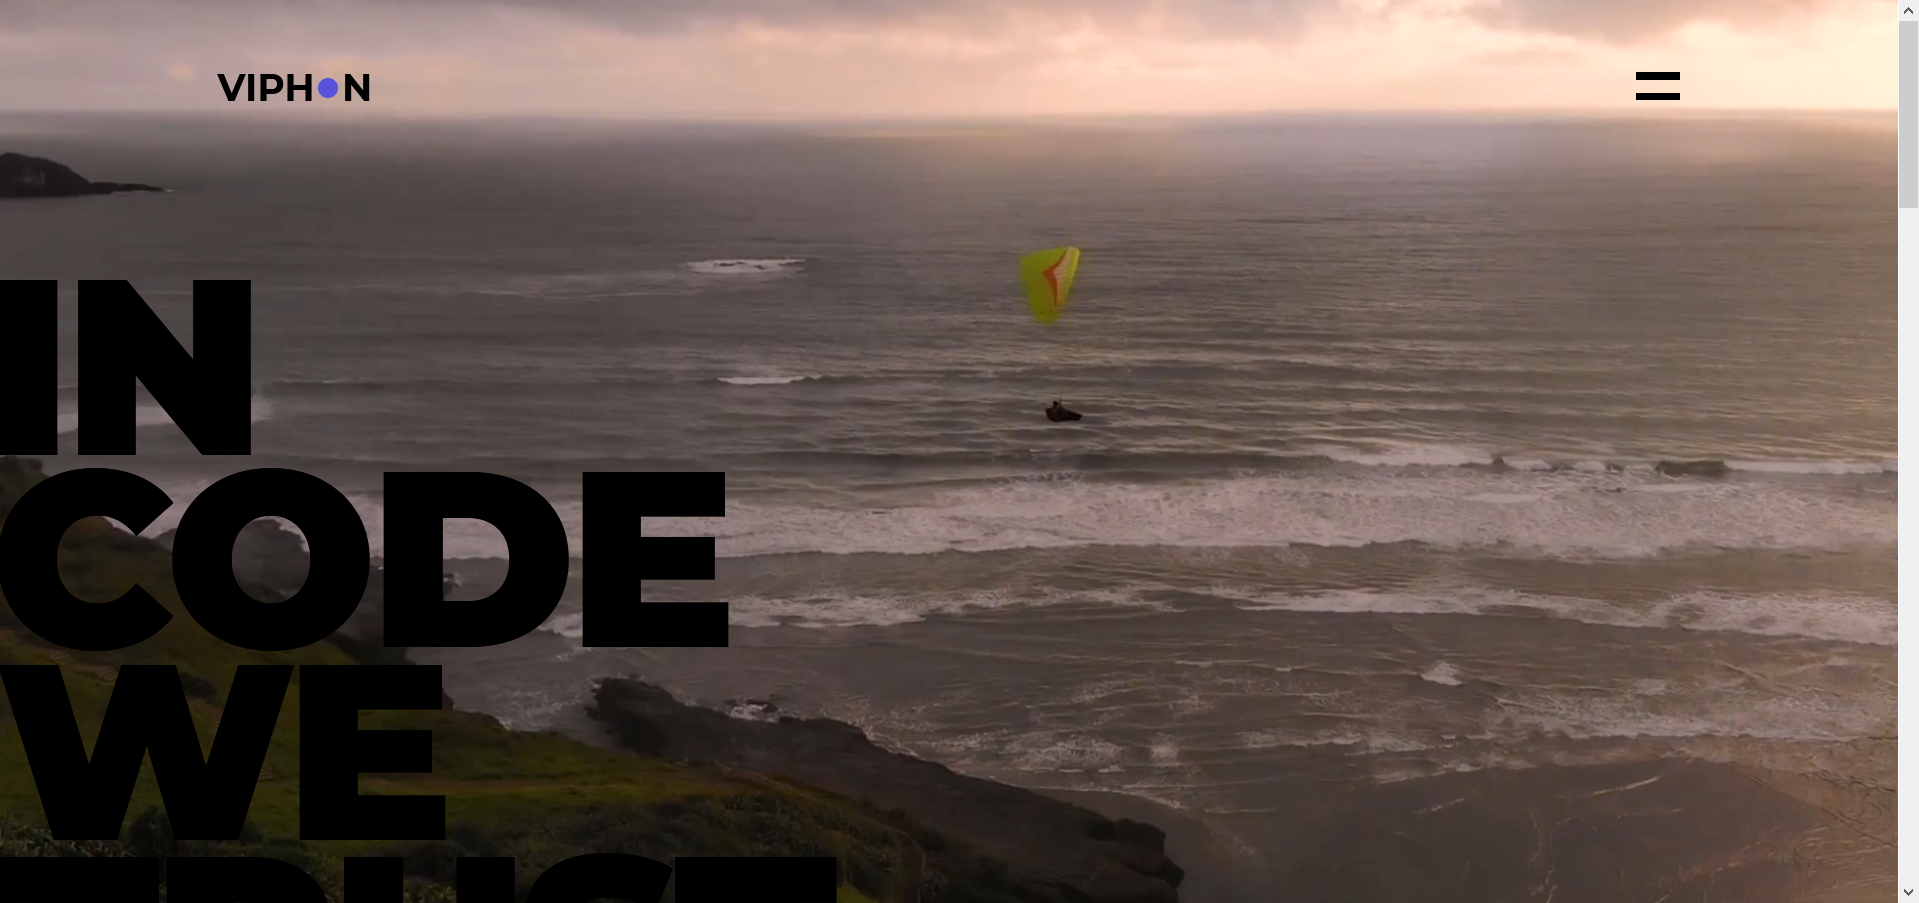
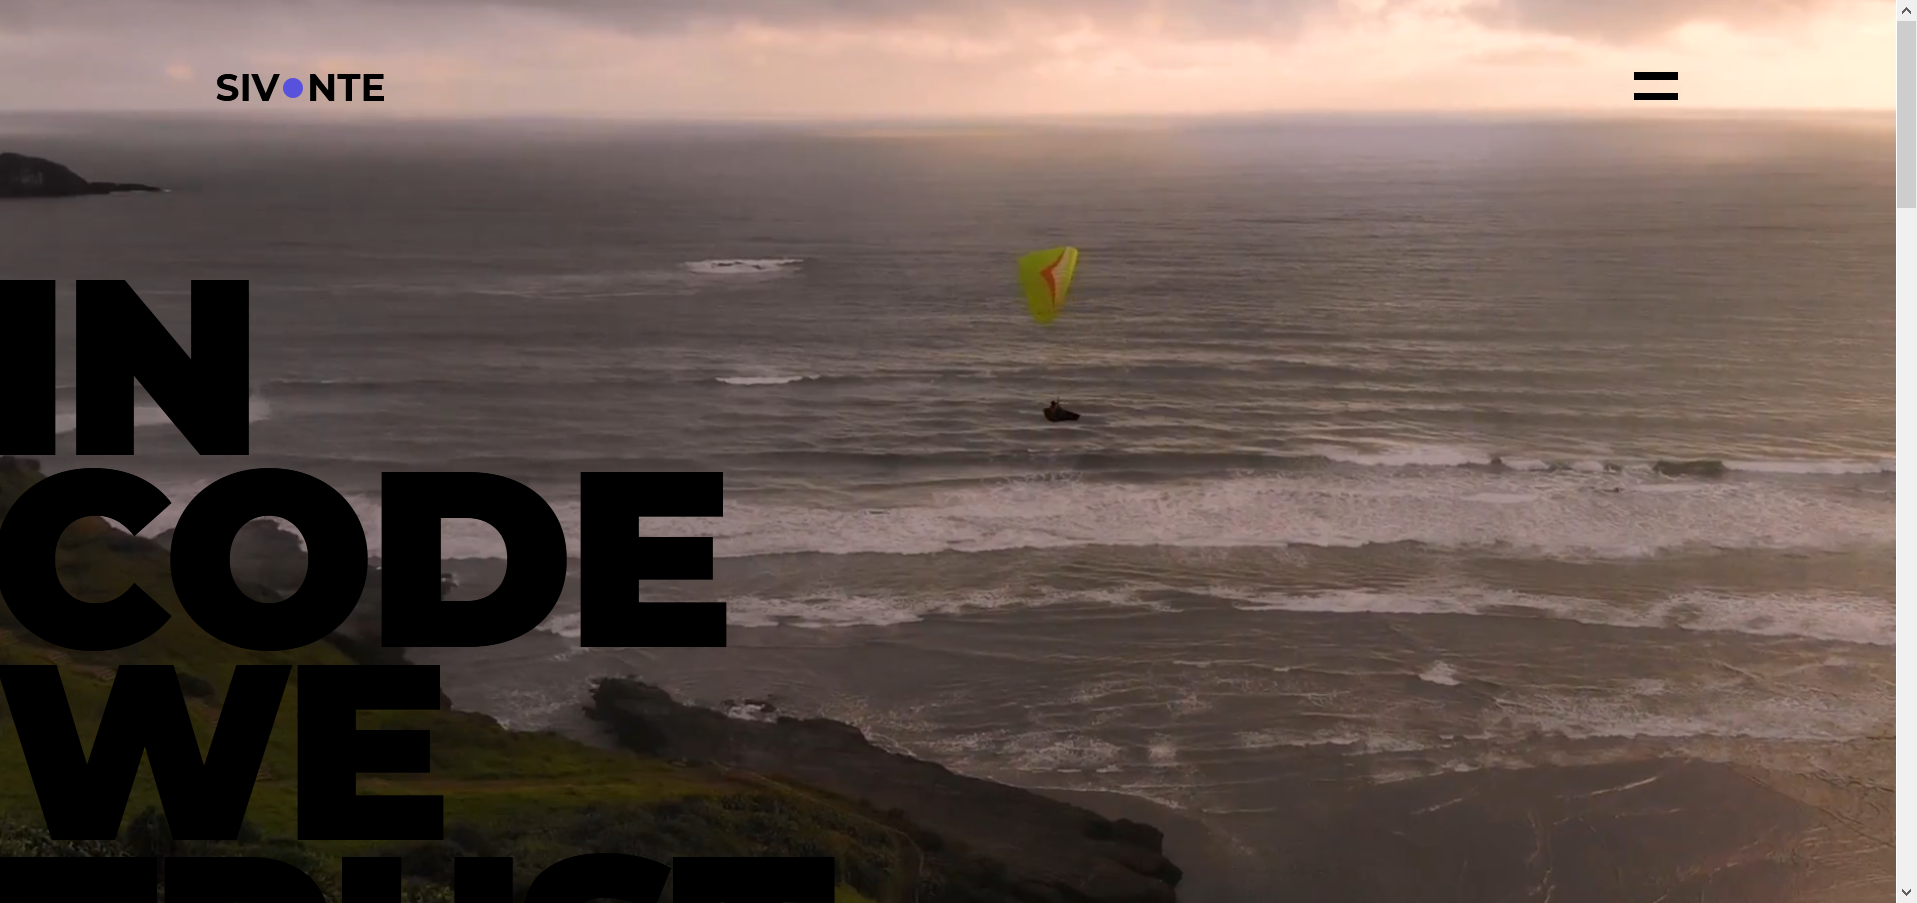
Updates for custom domain

Changed region(s): [[0.0923, 0.062, 0.2154, 0.124]]

diff --git a/gatsby-app/src/components/projectPage/ProjectAbout.tsx b/gatsby-app/src/components/projectPage/ProjectAbout.tsx
@@ -1,14 +1,19 @@
-import React from "react";
-import { observer } from "mobx-react";
-import { MDXRenderer } from "gatsby-plugin-mdx";
+import React from 'react';
+import { observer } from 'mobx-react';
+import { MDXRenderer } from 'gatsby-plugin-mdx';
 // Imports from src
-import { About, ProjectAboutSection, ProjectLink, ProjectLinks } from "../../styles/pages/projectStyles";
-import SVG from "../ui/SVG";
-import { useStore } from "../../hooks/useStore";
-import { sectionVariants } from "../../styles/base/globalVariants";
-import { IProject } from "../../models/project";
-import { useSectionAnimation } from "../../hooks/useSectionAnimation";
-import { Cursor } from "../../models/cursor";
+import {
+    About,
+    ProjectAboutSection,
+    ProjectLink,
+    ProjectLinks,
+} from '../../styles/pages/projectStyles';
+import SVG from '../ui/SVG';
+import { useStore } from '../../hooks/useStore';
+import { sectionVariants } from '../../styles/base/globalVariants';
+import { IProject } from '../../models/project';
+import { useSectionAnimation } from '../../hooks/useSectionAnimation';
+import { Cursor } from '../../models/cursor';
 
 interface IProps {
     project: IProject;

diff --git a/gatsby-app/src/components/layout/Header.tsx b/gatsby-app/src/components/layout/Header.tsx
@@ -9,6 +9,8 @@ import { useElementPosition } from '../../hooks/useElementPosition';
 import { Cursor } from '../../models/cursor';
 import { useDarkMode } from '../../hooks/useDarkMode';
 
+import logo from '../../assets/images/logo.png';
+
 const Header = (): JSX.Element => {
     const store = useStore();
     const { setCursor, setElementPosition, toggleOpen } = store.uiStore;
@@ -67,13 +69,13 @@ const Header = (): JSX.Element => {
                 onMouseLeave={() => setCursor()}
             >
                 <Logo>
-                    <Link to="/">VIPH</Link>
+                    <Link to="/">SIV</Link>
                     <span
                         onClick={toggleTheme}
                         onMouseEnter={() => setCursor(Cursor.Pointer)}
                         onMouseLeave={() => setCursor(Cursor.Hovered)}
                     />
-                    <Link to="/">N</Link>
+                    <Link to="/">NTE</Link>
                 </Logo>
 
                 <Menu>

diff --git a/gatsby-app/src/components/layout/Footer.tsx b/gatsby-app/src/components/layout/Footer.tsx
@@ -9,7 +9,6 @@ import {
     FooterWrapper,
 } from '../../styles/layout/footerStyles';
 import { Cursor } from '../../models/cursor';
-import { useViewportScroll } from 'framer-motion';
 
 const Footer = (): JSX.Element => {
     const store = useStore();
@@ -83,7 +82,7 @@ const Footer = (): JSX.Element => {
             </FooterEmail>
 
             <FooterCopyrights>
-                <p>&copy; Viphon 2020</p>
+                <p>&copy; Sivonte 2020</p>
             </FooterCopyrights>
 
             <FooterSocial navOpen={open}>

diff --git a/gatsby-app/src/styles/pages/projectStyles.ts b/gatsby-app/src/styles/pages/projectStyles.ts
@@ -1,7 +1,7 @@
 import styled, { css } from 'styled-components';
 import { motion } from 'framer-motion';
 // Imports from src
-import { greyLightColor, primaryColor } from '../base/variables';
+import { primaryColor } from '../base/variables';
 import { respondTo } from '../base/responsive';
 
 // Slider section
@@ -170,6 +170,7 @@ const projectWrapper = css`
 
 export const PrevProject = styled(motion.div)<{ prev: boolean }>`
     ${projectWrapper}
+
     grid-column: center-start / col-end 4;
     padding-right: 1rem;
 

diff --git a/gatsby-app/src/hooks/useDarkMode.ts b/gatsby-app/src/hooks/useDarkMode.ts
@@ -24,9 +24,13 @@ export const useDarkMode = (): {
     useEffect(() => {
         const theme = window.localStorage.getItem('theme');
 
-        if (theme) {
-            setTheme(theme);
-        }
+        window.matchMedia &&
+        window.matchMedia('(prefers-color-scheme: dark)').matches &&
+        !theme
+            ? setTheme('dark')
+            : theme
+            ? setTheme(theme)
+            : setTheme('light');
     }, [setTheme]);
 
     return { toggleTheme, themeMode };

diff --git a/gatsby-app/src/components/homePage/HomeContent.tsx b/gatsby-app/src/components/homePage/HomeContent.tsx
@@ -16,7 +16,7 @@ const HomeContent = (): JSX.Element => {
         >
             <Content>
                 Hi, I&apos;m Krzysztof Talar. <br />
-                I&apos;m front-end & back-end developer.
+                I&apos;m Full-Stack Developer, React and .NET.
             </Content>
         </HomeContentSection>
     );

diff --git a/gatsby-app/src/components/ui/SEO.tsx b/gatsby-app/src/components/ui/SEO.tsx
@@ -37,7 +37,7 @@ const SEO: React.FC<Props> = ({
                 lang,
             }}
             title={metaTitle}
-            titleTemplate={`Viphon: ${metaTitle}`}
+            titleTemplate={`Sivonte: ${metaTitle}`}
             meta={[
                 {
                     name: 'description',

diff --git a/gatsby-app/src/stores/uiStore.ts b/gatsby-app/src/stores/uiStore.ts
@@ -19,7 +19,7 @@ export default class UIStore {
         );
     }
 
-    theme: string | null = 'light';
+    theme: string | null = null;
     cursor: Cursor | boolean = false;
     open = false;
     elementPosition: { elX: number; elY: number } = { elX: 0, elY: 0 };
